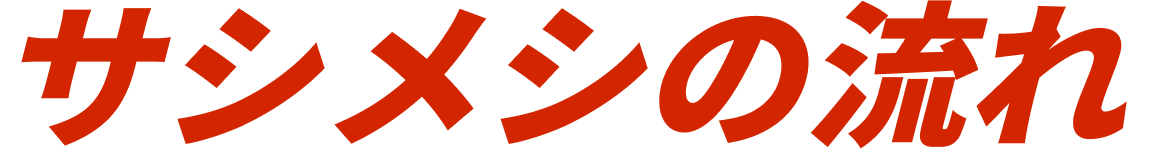
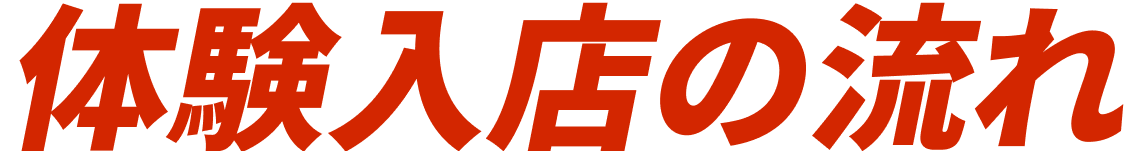
fix/体験入店に変更と、新しいページの作成

diff --git a/app/frontend/entrypoints/public.scss b/app/frontend/entrypoints/public.scss
@@ -3234,7 +3234,7 @@ input[name="tab_item"] {
 }
 
 .job-system-card {
-  padding: 50px;
+  padding: 40px;
   background-color: #FFFFFF;
   border-radius: 4px;
 }

diff --git a/config/routes.rb b/config/routes.rb
@@ -62,6 +62,7 @@ Rails.application.routes.draw do
         get :show
         post :confirm
         get :complete
+        get :career_support
       end
     end
   end
